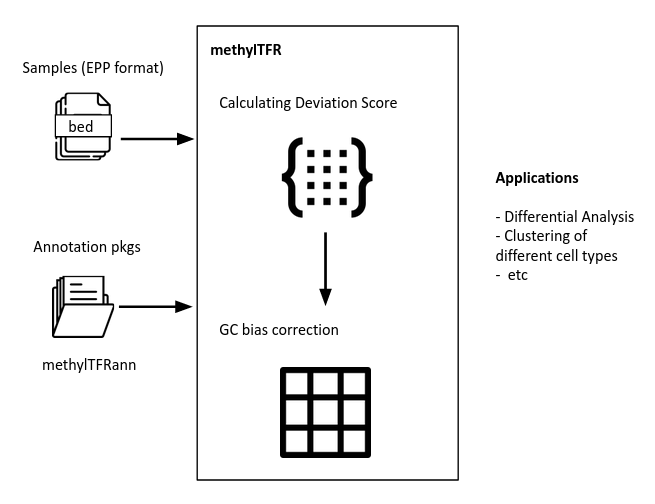
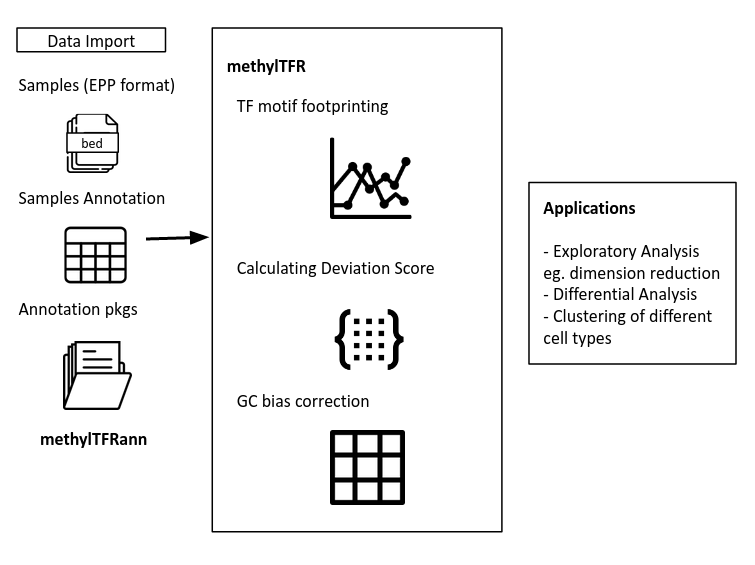
vignettes updated and run_methylTFR added

Changed region(s): [[0.0305, 0.0298, 0.9771, 0.9524], [0.2137, 0.0595, 0.2443, 0.0893], [0.0, 0.0595, 0.0305, 0.0893]]

diff --git a/README.md b/README.md
@@ -9,6 +9,8 @@
 - data.table
 - dplyr
 - stringr
+- parallel
+- logger
 
 ```R
 
@@ -32,36 +34,21 @@ Rscript -e "library(devtools); devtools::install('.')"
 
 ## QuickStart
 
+The samples directory should contain methylation bed files and a tab delimited sample annotation file. The bedFile column in the sample annotation file should be used to hold bedfile names. 
+
 ```R
 
+library(GenomicRanges)
+library(dplyr)
 library(methylTFRann)
 library(methylTFR)
 
-library(parallel)
-library(data.table)
+sample_dir <- file.path("samples_dir")
+sample_ann <- "samples.tsv" # should contain column name bedFile
 
-# load annotation files from methylTFRann
-tf_bindsites <- getTFbindsites()
-gc_dist <- getGenomeGC()
-motif_gcfreq <- getGCfreq()
-
-motif_list <- names(motif_gcfreq)
-
-# read files to be processed
-files_list <- list.files(path="/data/blueprint/bed", pattern='*.bed', full.names=T)
-deviation_distal <- data.frame(motifs = names(motif_gcfreq))
-# process each file and calculate variability score for each samples or cells
-for (fname in files_list) {
-    basename = unlist(str_split(fname, "/"))[10]
-    prefix = str_replace(basename, ".bed", "")
-    if (! prefix %in% colnames(deviation_distal)){
-        print(paste0(fname, " Processing ..."))
-        msites <- read_methylome(fname)
-        assign(prefix, mclapply(motif_list, compute_variability, msites = msites, tf_bindsites = tf_bindsites, gcfreqs = motif_gcfreq, gcdist = gc_dist, mc.cores = 16))
-        deviation_distal[prefix] = unlist(get(prefix))
-        print("Done")
-        save(deviation_distal, file = "/data/gc_corrected_distal_deviation_all.Rds")
-    }
-}
+# deviation score matrix
+deviations <- run_methyltfr(sample_ann,
+                            sample_dir,
+                            threads = 8)
 
 ```
